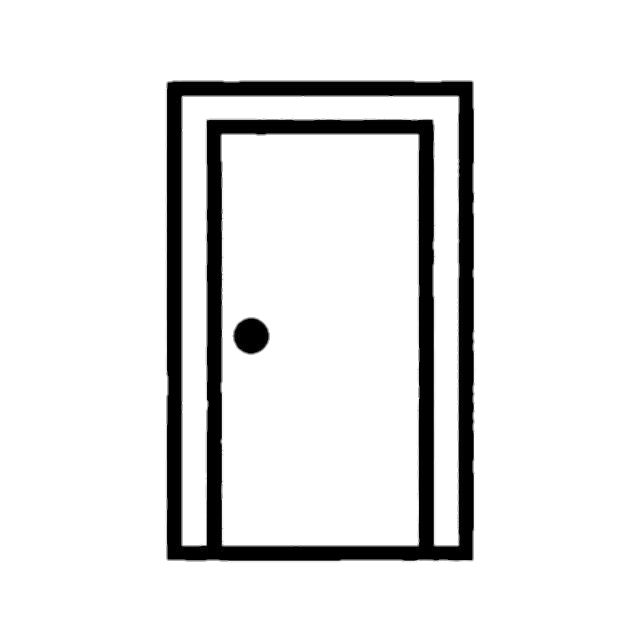
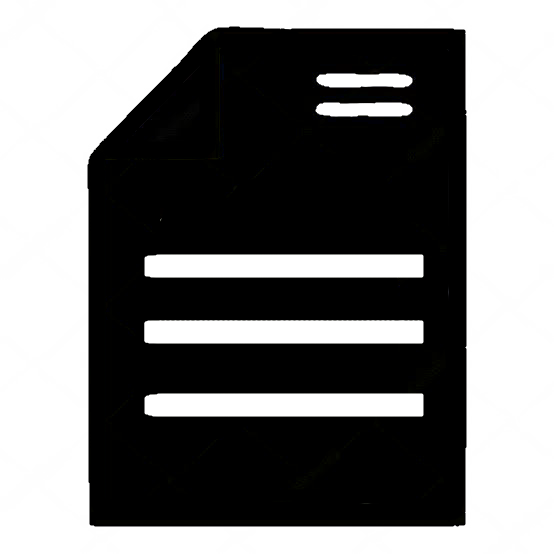
Formulario cambio de archivo css

diff --git a/public/css/general.css b/public/css/general.css
@@ -150,7 +150,10 @@ header.topbar{
 .sidebar .salir:hover{background:#7f1d1d40;}
 .sidebar .salir .ic{width:20px;text-align:center;display:flex;align-items:center;justify-content:center;flex-shrink:0;}
 .sidebar .salir .ic img{width:18px;height:18px;object-fit:contain;}
-
+#salir .ic img{
+  width:30px;
+  height: 30px;
+}
 /* MODAL */
 .modal-header{
   height: 60px;
@@ -269,80 +272,3 @@ h2.section-title{color:var(--azul-oscuro);font-size:18px;margin:0 0 3px;display:
 .btn-volver:hover{background:var(--gris-suave);}
 
 /* Tarjeta blanca, igual formato que la ficha de alumno */
-.legajo-card{
-  background:#fff;
-  border:1px solid var(--gris-borde);
-  border-radius:14px;
-  padding:26px 28px;
-  max-width:520px;
-  box-shadow:0 4px 18px rgba(18,32,107,.05);
-}
-
-.legajo-card-top{display:flex;align-items:flex-start;gap:16px;margin-bottom:18px;}
-.avatar-generico{
-  width:58px;height:58px;border-radius:50%;
-  background:#eef0f6;color:#9aa1b8;
-  display:flex;align-items:center;justify-content:center;font-size:26px;flex-shrink:0;
-}
-.nombre-wrap{flex:1;}
-.nombre-wrap label{display:block;font-size:11px;font-weight:700;text-transform:uppercase;letter-spacing:.3px;color:var(--gris-sub);margin-bottom:4px;}
-.nombre-wrap input.input-nombre{
-  width:100%;font-size:18px;font-weight:800;color:var(--azul-oscuro);
-  border:none;border-bottom:2px solid var(--gris-borde);
-  padding:2px 0 6px;font-family:inherit;outline:none;background:transparent;
-}
-.nombre-wrap input.input-nombre::placeholder{color:#c3c7d8;font-weight:700;}
-.nombre-wrap input.input-nombre:focus{border-bottom-color:var(--azul-cielo);}
-
-.badge-estado{
-  font-size:11px;font-weight:800;padding:4px 12px;border-radius:20px;
-  background:#dcfce7;color:#15803d;white-space:nowrap;margin-top:4px;
-}
-
-/* Filas con ícono, igual que la imagen de referencia */
-.campo-icono-form{display:flex;align-items:center;gap:10px;margin-bottom:14px;}
-.campo-icono-form .ic{width:20px;text-align:center;flex-shrink:0;color:var(--azul-medio);font-size:15px;}
-.campo-icono-form label{
-  font-size:13px;font-weight:700;color:var(--gris-texto);
-  min-width:110px;flex-shrink:0;
-}
-.campo-icono-form label .req{color:#b91c1c;}
-.campo-icono-form input,
-.campo-icono-form select{
-  flex:1;
-  padding:8px 10px;
-  border:1.5px solid var(--gris-borde);
-  border-radius:7px;
-  font-size:13.5px;
-  font-family:inherit;
-  outline:none;
-  background:#fff;
-  color:var(--gris-texto);
-}
-.campo-icono-form input:focus,
-.campo-icono-form select:focus{border-color:var(--azul-cielo);}
-
-.otra-escuela-row{margin:6px 0 16px 30px;}
-.otra-escuela-row .check-row{display:flex;align-items:center;gap:8px;font-size:13px;font-weight:600;color:var(--gris-texto);margin-bottom:8px;}
-.otra-escuela-row .check-row input{width:auto;}
-.otra-escuela-row input[type=text]{
-  width:100%;padding:8px 10px;border:1.5px solid var(--gris-borde);border-radius:7px;
-  font-size:13px;font-family:inherit;
-}
-
-.form-hint{font-size:12px;color:var(--gris-sub);margin:2px 0 18px 30px;}
-
-.btn-guardar-legajo{
-  display:block;
-  width:100%;
-  background:var(--azul-medio);
-  color:#fff;
-  border:none;
-  padding:12px;
-  border-radius:8px;
-  font-weight:700;
-  font-size:14px;
-  cursor:pointer;
-  margin-top:6px;
-}
-.btn-guardar-legajo:hover{background:var(--azul-oscuro);}

diff --git a/public/css/formulario.css b/public/css/formulario.css
@@ -1,0 +1,77 @@
+.legajo-card{
+  background:#fff;
+  border:1px solid var(--gris-borde);
+  border-radius:14px;
+  padding:26px 28px;
+  max-width:520px;
+  box-shadow:0 4px 18px rgba(18,32,107,.05);
+}
+
+.legajo-card-top{display:flex;align-items:flex-start;gap:16px;margin-bottom:18px;}
+.avatar-generico{
+  width:58px;height:58px;border-radius:50%;
+  background:#eef0f6;color:#9aa1b8;
+  display:flex;align-items:center;justify-content:center;font-size:26px;flex-shrink:0;
+}
+.nombre-wrap{flex:1;}
+.nombre-wrap label{display:block;font-size:11px;font-weight:700;text-transform:uppercase;letter-spacing:.3px;color:var(--gris-sub);margin-bottom:4px;}
+.nombre-wrap input.input-nombre{
+  width:100%;font-size:18px;font-weight:800;color:var(--azul-oscuro);
+  border:none;border-bottom:2px solid var(--gris-borde);
+  padding:2px 0 6px;font-family:inherit;outline:none;background:transparent;
+}
+.nombre-wrap input.input-nombre::placeholder{color:#c3c7d8;font-weight:700;}
+.nombre-wrap input.input-nombre:focus{border-bottom-color:var(--azul-cielo);}
+
+.badge-estado{
+  font-size:11px;font-weight:800;padding:4px 12px;border-radius:20px;
+  background:#dcfce7;color:#15803d;white-space:nowrap;margin-top:4px;
+}
+
+/* Filas con ícono, igual que la imagen de referencia */
+.campo-icono-form{display:flex;align-items:center;gap:10px;margin-bottom:14px;}
+.campo-icono-form .ic{width:20px;text-align:center;flex-shrink:0;color:var(--azul-medio);font-size:15px;}
+.campo-icono-form label{
+  font-size:13px;font-weight:700;color:var(--gris-texto);
+  min-width:110px;flex-shrink:0;
+}
+.campo-icono-form label .req{color:#b91c1c;}
+.campo-icono-form input,
+.campo-icono-form select{
+  flex:1;
+  padding:8px 10px;
+  border:1.5px solid var(--gris-borde);
+  border-radius:7px;
+  font-size:13.5px;
+  font-family:inherit;
+  outline:none;
+  background:#fff;
+  color:var(--gris-texto);
+}
+.campo-icono-form input:focus,
+.campo-icono-form select:focus{border-color:var(--azul-cielo);}
+
+.otra-escuela-row{margin:6px 0 16px 30px;}
+.otra-escuela-row .check-row{display:flex;align-items:center;gap:8px;font-size:13px;font-weight:600;color:var(--gris-texto);margin-bottom:8px;}
+.otra-escuela-row .check-row input{width:auto;}
+.otra-escuela-row input[type=text]{
+  width:100%;padding:8px 10px;border:1.5px solid var(--gris-borde);border-radius:7px;
+  font-size:13px;font-family:inherit;
+}
+
+.form-hint{font-size:12px;color:var(--gris-sub);margin:2px 0 18px 30px;}
+
+.btn-guardar-legajo{
+  display:block;
+  width:100%;
+  background:var(--azul-medio);
+  color:#fff;
+  border:none;
+  padding:12px;
+  border-radius:8px;
+  font-weight:700;
+  font-size:14px;
+  cursor:pointer;
+  margin-top:6px;
+}
+.btn-guardar-legajo:hover{background:var(--azul-oscuro);}

diff --git a/resources/views/bdconn/crear.blade.php b/resources/views/bdconn/crear.blade.php
@@ -3,13 +3,33 @@
 <head>
     <meta charset="UTF-8">
     <meta name="viewport" content="width=device-width, initial-scale=1.0">
-    <title>Crear nuevo Legajo</title>
-    <!-- Tus hojas de estilo (legajo.css se linkea antes) -->
-    <link rel="stylesheet" href="{{asset('css/legajo.css')}}">
+    <title>Cargar Datos</title>
+    <link rel="stylesheet" href="{{asset('css/formulario.css')}}">
 </head>
 <body>
+<header class="topbar">
 
-    <!-- Encabezado superior de la página -->
+  <button class="ham-btn" id="btnMenu" title="Abrir / cerrar menú">&#9776;</button>
+  <div class="logo">
+    <div id="escudo"><img src="/imagen/epet.png" alt="Escudo EPET 20"></div>
+    <div class="txt"><b>LEGAJOS</b><span>EPET N°20</span></div>
+  </div>
+
+  <div class="bienvenida-top">
+    <b>¡Bienvenido/a, Secretaría!</b>
+    <span>Sistema de Gestión de Legajos</span>
+  </div>
+
+  <div class="buscador">
+    <input type="text" placeholder="Buscar alumno...">
+    <span class="lupa">&#128269;</span>
+  </div>
+
+  <div class="userchip">
+    <div class="av">S</div>
+    <div class="txt"><b>Secretaría</b><span>Usuario</span></div>
+  </div>
+</header>
     <div class="form-header">
         <div class="titulo-wrap">
             <div class="icono-cuadrado">
@@ -27,7 +47,7 @@
 
     <!-- Tarjeta Principal del Formulario -->
     <div class="legajo-card">
-        <form action="guardar_legajo.php" method="POST" id="formCrearLegajo">
+        <form action="" method="POST" id="crear">
             
             <!-- Parte superior de la tarjeta (Avatar, Nombre y Badge Estado) -->
             <div class="legajo-card-top">

diff --git a/resources/views/iniciouno.blade.php b/resources/views/iniciouno.blade.php
@@ -4,7 +4,7 @@
 <meta charset="UTF-8">
 <title>LEGAJOS - EPET N°20 - Secretaria</title>
 <link href="https://cdn.jsdelivr.net/npm/bootstrap@5.3.8/dist/css/bootstrap.min.css" rel="stylesheet" integrity="sha384-sRIl4kxILFvY47J16cr9ZwB07vP4J8+LH7qKQnuqkuIAvNWLzeN8tE5YBujZqJLB" crossorigin="anonymous">
-<link rel="stylesheet" href="{{asset('css/legajo.css')}}">
+<link rel="stylesheet" href="{{asset('css/general.css')}}">
 </head>
 <body>
 
@@ -47,8 +47,12 @@
         <span class="ic"><img src="imagen/usuario.png" alt="Alumnos"></span>
         <span class="label">Alumnos</span>
       </div>
+      <div class="item">
+        <span class="ic"><img src="" alt="Crear"></span>
+        <a href="{{route('crearlegajo')}}"><span class="label">Crear legajo</span></a>
+      </div>
       <div id="salir" class="salir">
-      <span class="ic"><img src="" ></span>
+      <span class="ic"><img src="imagen/puerta.png" ></span>
       <button type="button" class="btn btn-outline-info" data-bs-toggle="modal" data-bs-target="#cierre">Cerrar Sesion</button>
       </div>
     </div>

diff --git a/routes/web.php b/routes/web.php
@@ -8,6 +8,9 @@ use App\Http\Controllers\ControladorLegajo;
 Route::get('/', function(){
     return view ('auth.login');
 })->name('login');
+Route::get('/crear', function(){
+    return view ('bdconn.crear');
+})->name('crearlegajo');
 
 Route::post('/salir', [ControladorLogin::class, 'CerrarSesion'])->name('logout');
 

diff --git a/resources/views/prueba.blade.php b/resources/views/prueba.blade.php
@@ -3,7 +3,7 @@
 <head>
 <meta charset="UTF-8">
 <title>LEGAJOS - EPET N°20 - Preceptoría</title>
-<link rel="stylesheet" href="{{ asset('css/legajo.css') }}">
+<link rel="stylesheet" href="{{ asset('css/general.css') }}">
 </head>
 <body>
 

diff --git a/resources/views/auth/login.blade.php b/resources/views/auth/login.blade.php
@@ -3,7 +3,7 @@
 <head>
 <meta charset="UTF-8">
 <title>LEGAJOS - EPET N°20 - Ingresar</title>
-<link rel="stylesheet" href="{{ asset('css/legajo.css') }}">
+<link rel="stylesheet" href="{{ asset('css/general.css') }}">
 </head>
 <body>
 
